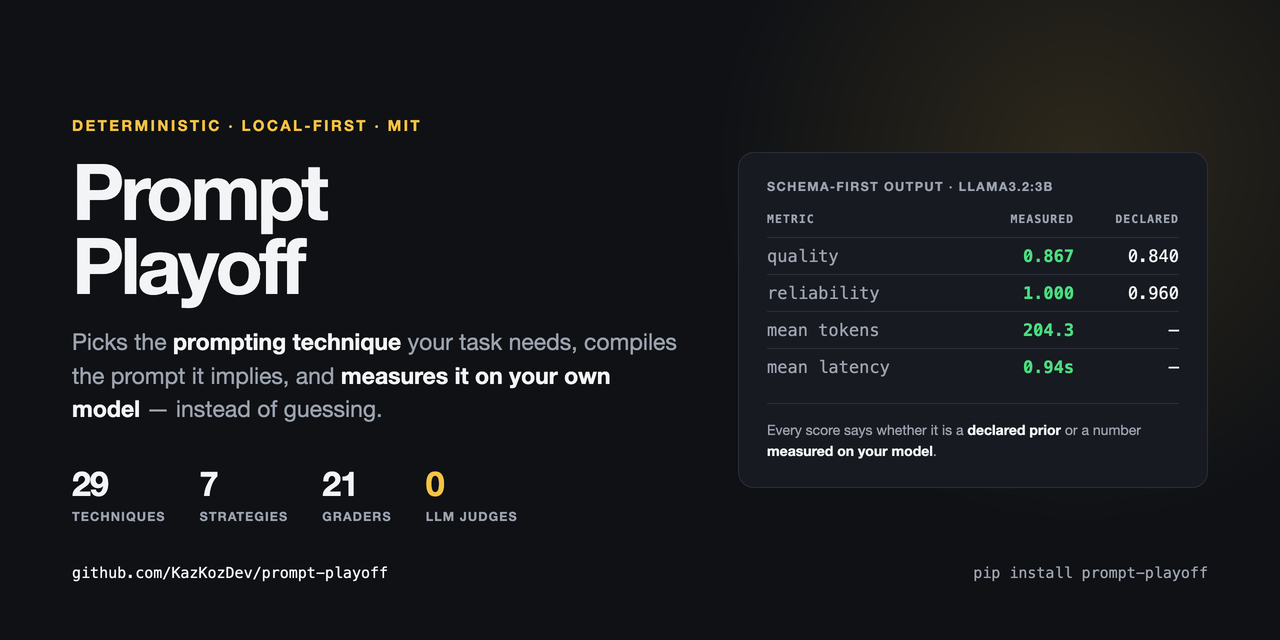
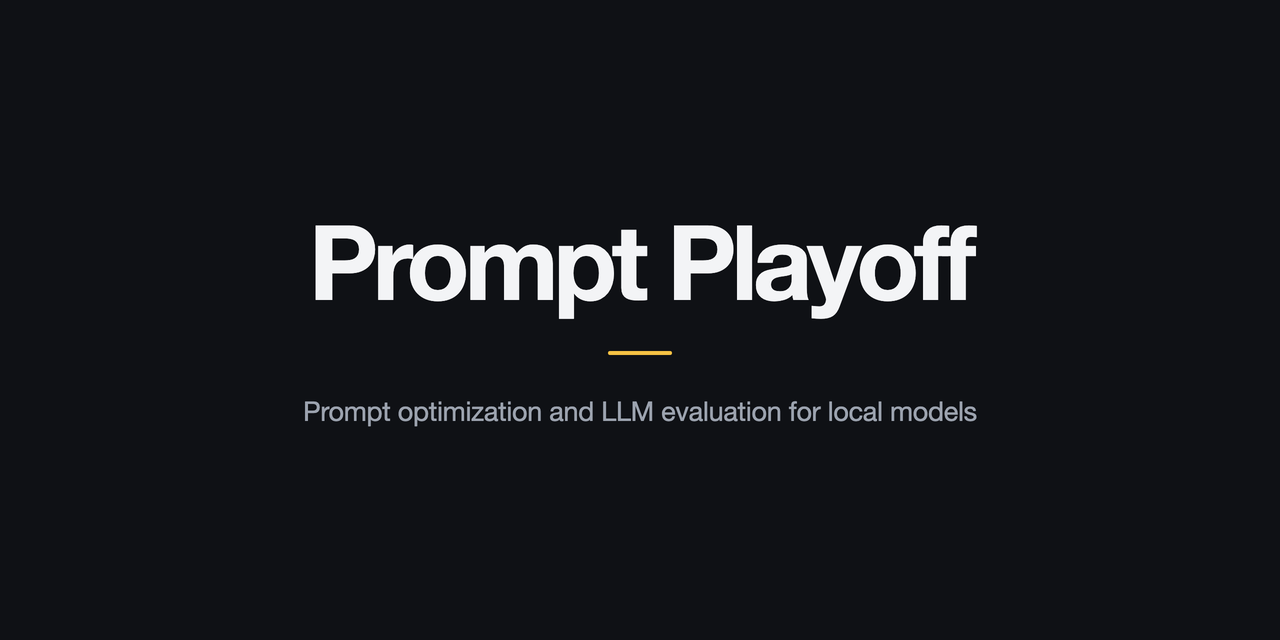
docs: strip the social preview back to the name and one line
The card carried a stats row and a metrics table. At the size these images
are actually seen — a thumbnail in a chat unfurl or a timeline — none of that
was legible, so it read as texture rather than information.

Name, one accent rule, one line saying what this is. 53KB against the
previous 202KB, and nothing within 50px of an edge.

diff --git a/assets/social-preview.html b/assets/social-preview.html
@@ -4,110 +4,28 @@
 <style>
   /* The interface's own tokens, so the card and the app look like one thing. */
   :root {
-    --bg:#0f1115; --panel:#171a21; --panel2:#10131a; --border:#2a2f3a;
-    --text:#f3f4f6; --muted:#9ca3af; --accent:#f6c344; --good:#4ade80;
+    --bg:#0f1115; --text:#f3f4f6; --muted:#9ca3af; --accent:#f6c344;
     --sans: -apple-system, "Helvetica Neue", Arial, sans-serif;
-    --mono: ui-monospace, Menlo, monospace;
   }
   * { box-sizing:border-box; margin:0; padding:0; }
   body {
     width:1280px; height:640px; background:var(--bg); color:var(--text);
-    font-family:var(--sans); overflow:hidden; position:relative;
+    font-family:var(--sans); overflow:hidden;
+    display:flex; flex-direction:column; align-items:center; justify-content:center;
   }
-  /* A wash from the accent, kept far from the text so nothing loses contrast. */
-  .glow {
-    position:absolute; right:-180px; top:-220px; width:760px; height:760px;
-    background:radial-gradient(circle, rgba(246,195,68,.13) 0%, rgba(246,195,68,0) 68%);
+  h1 {
+    font-size:104px; font-weight:800; letter-spacing:-.05em; line-height:1;
   }
-  .frame {
-    position:relative; height:100%; padding:64px 72px;
-    display:grid; grid-template-columns:1fr 470px; gap:56px; align-content:center;
+  /* One accent mark, sized to the descender of the word above it. */
+  .rule {
+    width:64px; height:4px; margin:38px 0; border-radius:2px; background:var(--accent);
   }
-  .kicker {
-    color:var(--accent); font-size:15px; font-weight:800;
-    text-transform:uppercase; letter-spacing:.16em; margin-bottom:20px;
+  p {
+    color:var(--muted); font-size:27px; line-height:1.4; letter-spacing:-.01em;
+    text-align:center; max-width:840px;
   }
-  h1 { font-size:78px; line-height:.96; letter-spacing:-.045em; font-weight:800; }
-  .lede {
-    margin-top:22px; max-width:610px; color:var(--muted);
-    font-size:23px; line-height:1.45;
-  }
-  .lede b { color:var(--text); font-weight:600; }
-  .stats { display:flex; gap:34px; margin-top:38px; }
-  .stat .n { font-size:34px; font-weight:800; letter-spacing:-.03em; }
-  .stat .l {
-    margin-top:5px; color:var(--muted); font-size:12.5px; font-weight:700;
-    text-transform:uppercase; letter-spacing:.09em;
-  }
-  .stat.zero .n { color:var(--accent); }
-
-  .card {
-    align-self:center; border:1px solid var(--border); border-radius:16px;
-    background:var(--panel); padding:26px 28px;
-  }
-  .card h2 {
-    font-size:12.5px; font-weight:800; color:var(--muted);
-    text-transform:uppercase; letter-spacing:.11em; margin-bottom:18px;
-  }
-  table { width:100%; border-collapse:collapse; font-family:var(--mono); font-size:17px; }
-  th {
-    text-align:right; color:var(--muted); font-size:11.5px; font-weight:700;
-    text-transform:uppercase; letter-spacing:.09em; padding-bottom:11px;
-  }
-  th:first-child { text-align:left; }
-  td { padding:8px 0; border-top:1px solid var(--border); text-align:right; }
-  td:first-child { text-align:left; color:var(--muted); }
-  .measured { color:var(--good); font-weight:700; }
-  .card figcaption {
-    margin-top:18px; padding-top:16px; border-top:1px solid var(--border);
-    color:var(--muted); font-size:14px; line-height:1.45;
-  }
-  .card figcaption b { color:var(--text); font-weight:600; }
-
-  footer {
-    /* Nothing that matters sits within 50px of an edge: platforms crop. */
-    position:absolute; left:72px; right:72px; bottom:58px;
-    display:flex; justify-content:space-between; align-items:baseline;
-    color:var(--muted); font-family:var(--mono); font-size:15px;
-  }
-  footer .repo { color:var(--text); }
 </style>
 
-<div class="glow"></div>
-
-<div class="frame">
-  <section>
-    <p class="kicker">Deterministic · Local-first · MIT</p>
-    <h1>Prompt<br>Playoff</h1>
-    <p class="lede">
-      Picks the <b>prompting technique</b> your task needs, compiles the prompt it
-      implies, and <b>measures it on your own model</b> — instead of guessing.
-    </p>
-    <div class="stats">
-      <div class="stat"><div class="n">29</div><div class="l">Techniques</div></div>
-      <div class="stat"><div class="n">7</div><div class="l">Strategies</div></div>
-      <div class="stat"><div class="n">21</div><div class="l">Graders</div></div>
-      <div class="stat zero"><div class="n">0</div><div class="l">LLM judges</div></div>
-    </div>
-  </section>
-
-  <figure class="card">
-    <h2>Schema-first output · llama3.2:3b</h2>
-    <table>
-      <tr><th>Metric</th><th>Measured</th><th>Declared</th></tr>
-      <tr><td>quality</td><td class="measured">0.867</td><td>0.840</td></tr>
-      <tr><td>reliability</td><td class="measured">1.000</td><td>0.960</td></tr>
-      <tr><td>mean tokens</td><td class="measured">204.3</td><td>—</td></tr>
-      <tr><td>mean latency</td><td class="measured">0.94s</td><td>—</td></tr>
-    </table>
-    <figcaption>
-      Every score says whether it is a <b>declared prior</b> or a number
-      <b>measured on your model</b>.
-    </figcaption>
-  </figure>
-</div>
-
-<footer>
-  <span class="repo">github.com/KazKozDev/prompt-playoff</span>
-  <span>pip install prompt-playoff</span>
-</footer>
+<h1>Prompt Playoff</h1>
+<div class="rule"></div>
+<p>Prompt optimization and LLM evaluation for local models</p>
